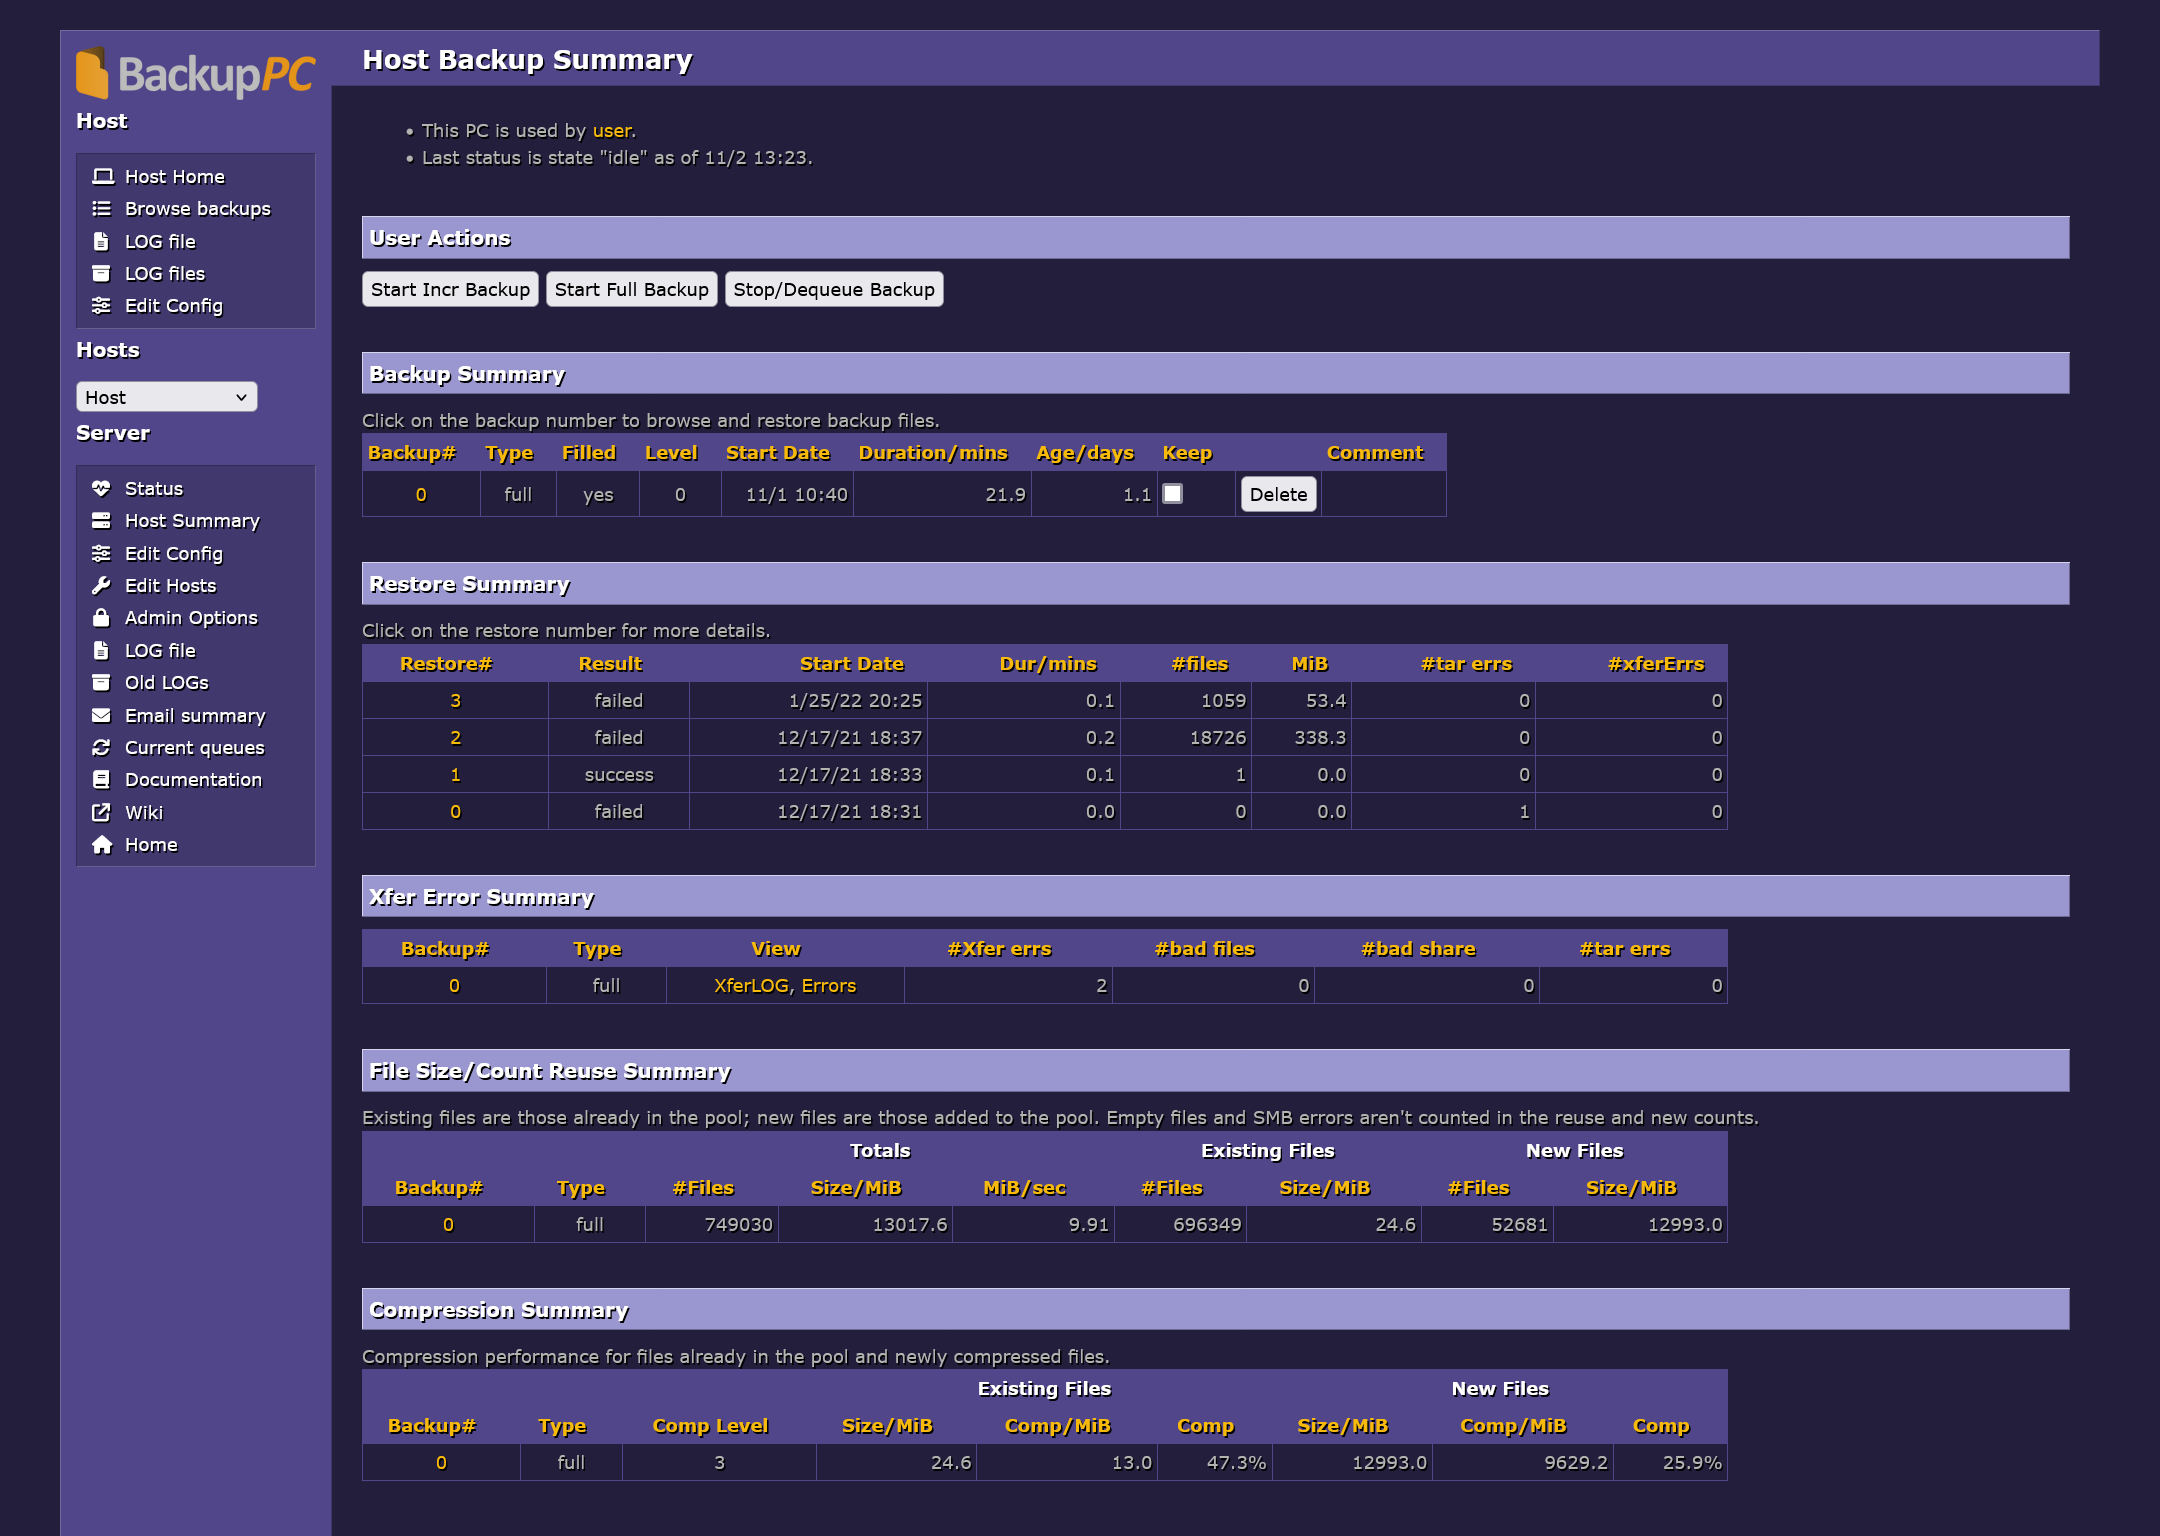
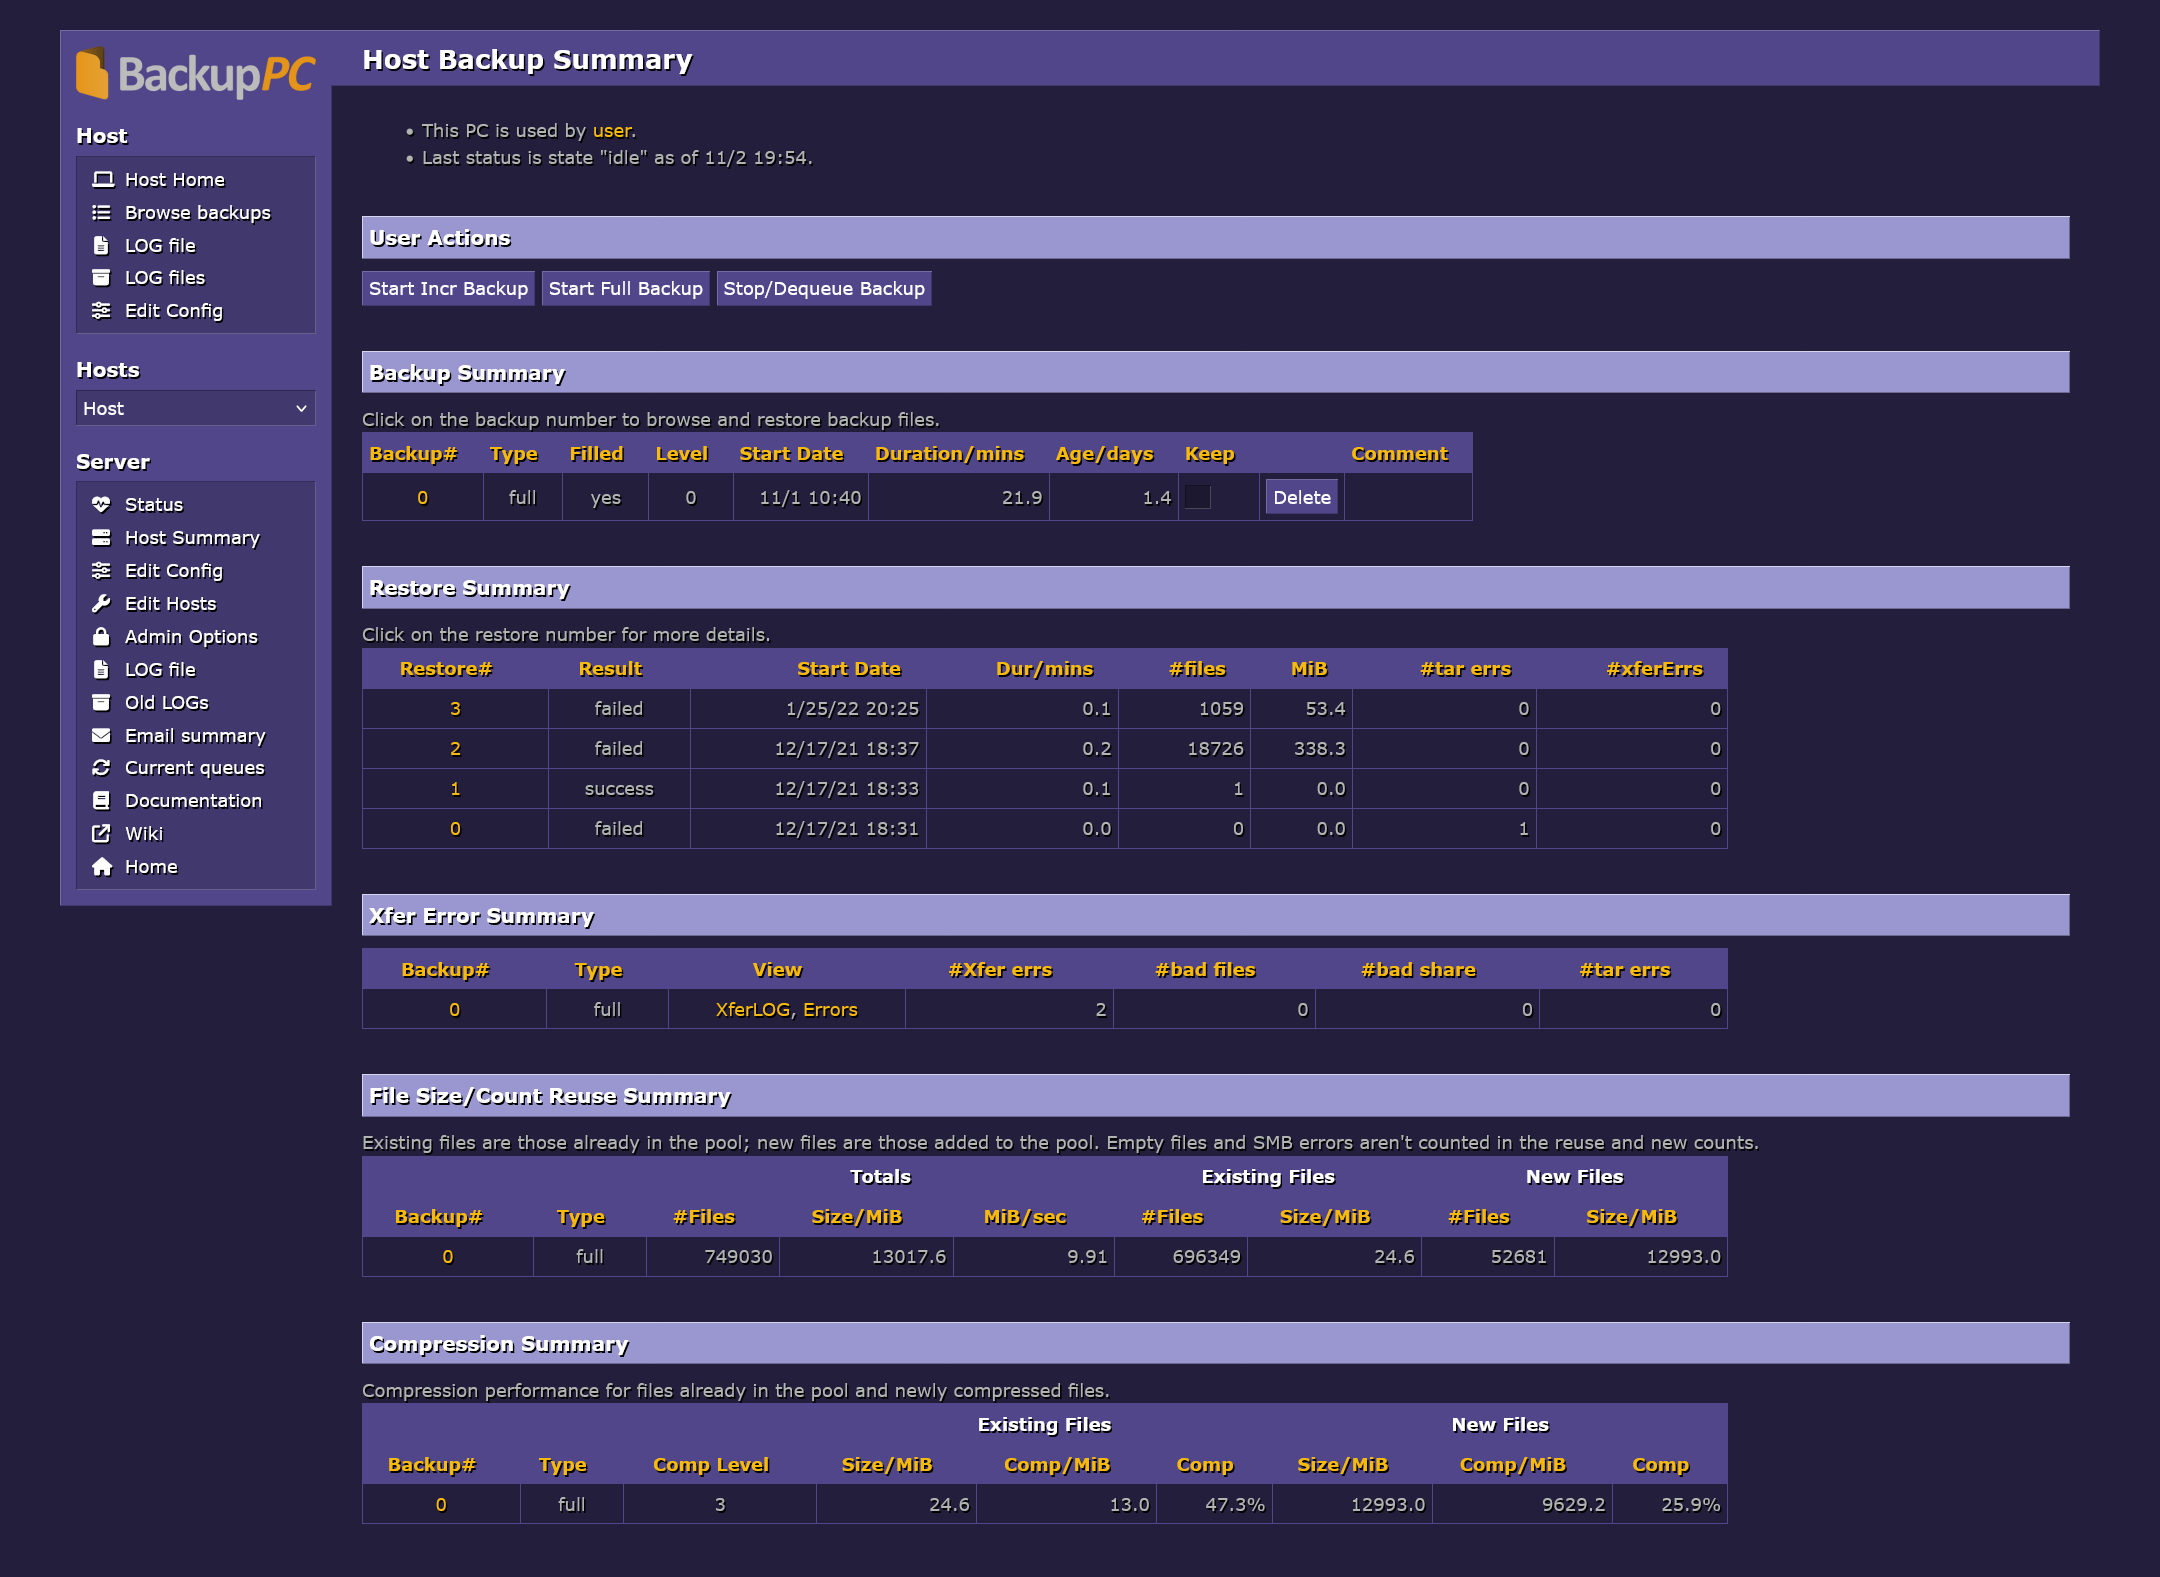
Rework form elements, config editor & minor tweaks

Changed region(s): [[0.031, 0.0312, 0.9616, 0.5312], [0.0, 0.5625, 0.9616, 1.0]]

diff --git a/BackupPC_90s.css b/BackupPC_90s.css
@@ -13,7 +13,6 @@
 
     --font-size: 12px; /* Used to calculate fake h1 line-height in 'Documentations' */
     --font-default: var(--font-size)/1.5 "Verdana Pro", "Verdana", sans-serif;
-
     --font-mono: 12px/1.2 "Consolas", monospace;
 
     --color-heading-background: #9a97d0;
@@ -29,9 +28,10 @@
     --color-table-head: var(--color-secondary-background);
     --color-table-head-text: White;
     --color-table-head-link: #F7BA0B;
-    --color-table-progress: #00387b;
-    --color-table-good: #007243;
-    --color-table-warn: #C1121C;
+
+    --color-progress: #00387b;
+    --color-good: #007243;
+    --color-warn: #C1121C;
 
     --color-border-table: var(--color-secondary-background);
     
@@ -41,14 +41,17 @@
     --border-primary-sink: rgba(0, 0, 0, 0.2);
     --border-secondary-rise: rgba(255, 255, 255, 0.6);
     --border-secondary-sink: rgba(0, 0, 0, 0.3);
+
+    --form-checkbox-size: calc(var(--font-size) * 1.333);
 }
 
 /***********/
 /* General */
 /***********/
 body {
+    /* Uncomment next line for vertically stretched navigation */
+    /* height: calc(100vh - var(--body-margin-v) * 2); */
     display: flex;
-    height: calc(100vh - var(--body-margin-v) * 2);
     margin: var(--body-margin);
     text-shadow: black 1px 1px;
     background: var(--color-primary-background);
@@ -137,6 +140,10 @@ h1:not(:first-child) {
     margin: var(--body-padding) calc(var(--body-padding) * -1) var(--body-padding) calc((var(--body-padding) * -1) - var(--border-width-ui));
 }
 /* h2 */
+h2.NavTitle {
+    padding-top: var(--body-padding-fraction-l);
+    margin-bottom: unset;
+}
 #Content h2 {
     background: var(--color-heading-background);
     margin-top : calc(var(--body-padding) * 1.5);
@@ -209,6 +216,9 @@ h2.NavTitle {
     padding: 0px var(--body-padding-fraction-l) var(--body-padding-fraction-s) var(--body-padding-fraction-l);
     border-width: 0px var(--border-width-ui) var(--border-width-ui) var(--border-width-ui);
 }
+.NavMenu select {
+    width: 100%;
+}
 
 /***********/
 /* Content */
@@ -218,14 +228,27 @@ table {
 }
 td {
     border: var(--border-width-table) solid var(--color-border-table);
+    padding: var(--body-padding-fraction-s);
 }
-tr.tableheader, td.editheader {
+table[bgcolor="#ffffff"], td[bgcolor="#ffffff"] {
+    background: transparent;
+}
+
+tr.tableheader, td.editheader, tr.fviewheader {
     background: var(--color-table-head);
     color: var(--color-table-head-text);
     font-weight: bold;
 }
-table[bgcolor="#ffffff"], td[bgcolor="#ffffff"] {
-    background: transparent;
+
+/* Table status colors */
+tr[bgcolor="#ccffcc"] {
+    background: var(--color-good);
+}
+tr[bgcolor="#ff9900"] {
+    background: var(--color-warn);
+}
+tr[bgcolor="#66cc99"] {
+    background: var(--color-progress);
 }
 
 /* Content browser */
@@ -238,18 +261,82 @@ td[width="30%"] td {
 td[width="30%"] td {
     font-family: monospace;
 }
+td.fview, td.fviewon, td.fviewoff, td.fviewbold {
+    padding: unset;
+}
+td.fviewon, td.fviewon a {
+    font-weight: bold;
+    color: var(--color-secondary-text) !important;
+}
 
-/***********************/
-/* Table status colors */
-/***********************/
-tr[bgcolor="#ccffcc"] {
-    background: var(--color-table-good);
+/* Config editor */
+table.editSubTable td {
+    border: unset;
 }
-tr[bgcolor="#ff9900"] {
-    background: var(--color-table-warn);
+table.editSubTable table {
+    border: var(--border-width-table) solid var(--color-border-table);
 }
-tr[bgcolor="#66cc99"] {
-    background: var(--color-table-progress);
+td.editTabSel  {
+    background-color: var(--color-secondary-background);
+}
+td.editTabSel a:hover, td.editTabNoSel a:hover {
+    color: var(--color-heading-text) !important;
+}
+
+/********/
+/* Form */
+/********/
+form {
+    margin: var(--body-padding-fraction-s) 0px;
+}
+input, textarea, select {
+    color: var(--color-secondary-text);
+    border-style: solid;
+    background-color: var(--border-primary-sink);
+    border-width: var(--border-width-ui);
+    border-color: var(--border-secondary-sink) var(--border-primary-rise) var(--border-primary-rise) var(--border-secondary-sink);
+}
+input, textarea {
+    padding: calc(var(--body-padding-fraction-s) / 2) var(--body-padding-fraction-s);}
+select {
+    padding: var(--body-padding-fraction-s);
+}
+/* Buttons */
+input[type="button"], input[type="submit"] {
+    color: var(--color-heading-text);
+    background-color: var(--color-secondary-background);
+    border-width: var(--border-width-ui);
+    border-color: var(--border-primary-rise) var(--border-primary-sink) var(--border-primary-sink) var(--border-primary-rise);
+}
+input[type="button"]:hover, input[type="submit"]:hover {
+    color: var(--color-heading-text);
+    background-color: var(--color-heading-background);
+    border-color: var(--border-secondary-rise) var(--border-secondary-sink) var(--border-secondary-sink) var(--border-secondary-rise);
+}
+input[type="button"]:active, input[type="submit"]:active {
+    color: var(--color-heading-background);
+    background-color: var(--color-secondary-background);
+    border-color: var(--border-secondary-sink) var(--border-primary-rise) var(--border-primary-rise) var(--border-secondary-sink);
+}
+/* Active changes save button */
+input[style="color: rgb(255, 0, 0);"] {
+    color: var(--color-heading-text) !important;
+    background-color: var(--color-warn);
+    border-width: var(--border-width-ui);
+    border-color: var(--border-secondary-rise) var(--border-secondary-sink) var(--border-secondary-sink) var(--border-secondary-rise);
+}
+/* Checkboxes */
+input[type="checkbox"] {
+    -webkit-appearance: none;
+    display: unset;
+    padding-left: var(--form-checkbox-size);
+}
+input[type="checkbox"]:checked {
+    background-color: var(--color-secondary-background);
+    background-size: var(--font-size);
+    background-position: center center;
+    background-repeat: no-repeat;
[1 lines of base64/hex data omitted]
 }
 
 /*************************************/

diff --git a/README.md b/README.md
@@ -1,10 +1,10 @@
 Some themes for BackupPC v4 (and v3?).
 
 # How to use
-1. Place the CSS files in `/usr/share/backuppc/image/`
-2. Update the CSS path
-    * in the GUI: *Edit Config* → *CGI* → *CgiCSSFile*
-    * or in the config file: `/etc/backuppc/config.pl` at `$Conf{CgiCSSFile}`
+1. Download CSS files to `/usr/share/backuppc/image/`
+2. Update `$Conf{CgiCSSFile}` to the css file name
+    * in the GUI go to **Edit Config** → **CGI** → **CgiCSSFile**
+    * or edit `/etc/backuppc/config.pl` at `$Conf{CgiCSSFile}`
 
 # General troubleshooting
 ## Menu icons not showing
@@ -23,6 +23,6 @@ There are 2 potential problems you may encounter:
 # Themes
 |||
 |---|---|
-|<h2>90s</h2><p>Retro theme with SNES/Famicom colors.</p><p><sub>Added 2024</sub></p>|[<img src="assets/preview_90s.png" alt="Modern" width="480"/>](assets/preview_90s.png)|
-|<h2>Modern</h2><p>Heavily inspired by INSPINIA Bootstrap Theme.</p><h3>Troubleshooting</h3><p>If the host menu is out of place, change the <tt>margin-top</tt> values in:</p><pre>br + div[class="NavMenu"] {}<br>div[class="NavMenu"] + div[class="NavMenu"] {}</pre><p><sub>Added 2017, updated 2023-04-14</sub></p>|[<img src="assets/preview_modern.png" alt="Modern" width="480"/>](assets/preview_modern.png)|
-|<h2>reset.css</h2><p>Resets CSS and some BackupPC quirks to start building your own theme on.</p><p>Clear <tt>$Conf{CgiCSSFile}</tt> before you start and use a userstyle editor like Stylish.</p><p><sub>Added 2024</sub></p>|[<img src="assets/preview_reset.png" alt="Modern" width="480"/>](assets/preview_reset.png)|
+|<h2>90s</h2><p>Retro theme with SNES/Famicom colors.</p><p><sub>Added 2024-11-02</sub></p>|[<img src="assets/preview_90s.png" alt="Modern" width="480"/>](assets/preview_90s.png)|
+|<h2>Modern</h2><p>Heavily inspired by INSPINIA Bootstrap Theme.</p><h3>Troubleshooting</h3><p>If the host menu is out of place, change the <tt>margin-top</tt> values in:</p><pre>br + div[class="NavMenu"] {}<br>div[class="NavMenu"] + div[class="NavMenu"] {}</pre><p><sub>Added 2017-09-04, updated 2023-04-14</sub></p>|[<img src="assets/preview_modern.png" alt="Modern" width="480"/>](assets/preview_modern.png)|
+|<h2>reset.css</h2><p>Resets CSS and some BackupPC quirks to start building your own theme on.</p><p>Clear <tt>$Conf{CgiCSSFile}</tt> before you start and use a userstyle editor like Stylish.</p><p><sub>Added 2024-11-02</sub></p>|[<img src="assets/preview_reset.png" alt="Modern" width="480"/>](assets/preview_reset.png)|
